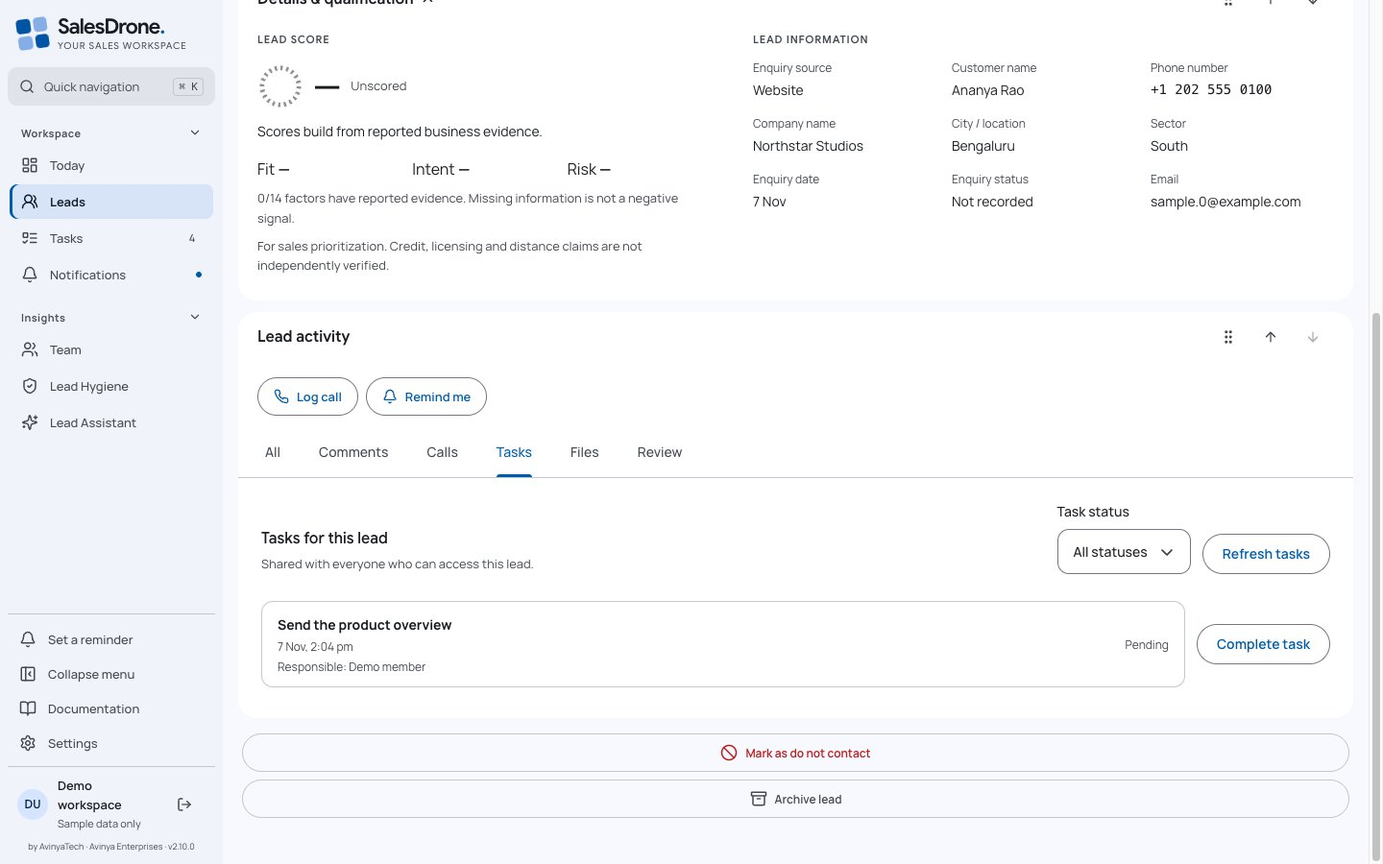
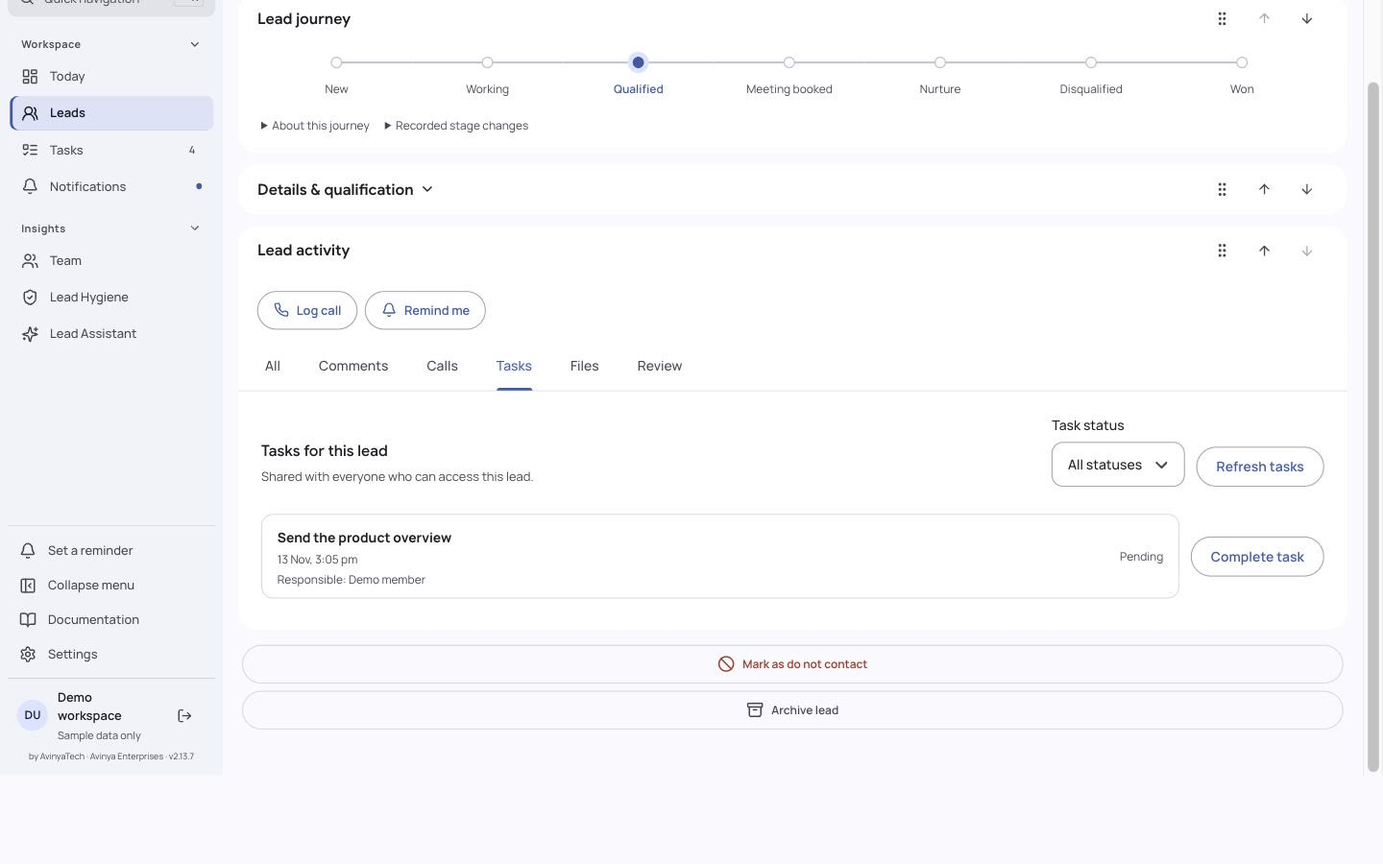
Refresh public product documentation and screenshots (#206)

diff --git a/site/index.html b/site/index.html
@@ -8,7 +8,7 @@
 <section id="journey"><span class="eyebrow">{{SECTION_NUMBER:journey}} / KNOW WHERE YOU STAND</span><h2>A path for the lead.<br>A view of the whole pipeline.</h2><div class="two"><div><p>Open a lead to see its current place in your configured sales stages. The recorded history shows actual changes, with their timestamps. Earlier stages are not marked as visited merely because they appear before the current one.</p><p>For older leads, SalesDrone says when earlier history is unavailable. New stage changes are recorded atomically with the lead update.</p><p>The dashboard funnel includes zero-count stages and your custom values. Its widths reflect current counts, so a later stage can be wider. Select a stage to open a matching lead list.</p></div><figure class="screen"><img src="assets/screenshots/journey-demo.jpg" alt="A synthetic lead opened with its current sales-stage journey"><figcaption>Configured path and confirmed history are separate ideas.</figcaption></figure></div></section>
 <section id="reminders"><span class="eyebrow">{{SECTION_NUMBER:reminders}} / LEAVE A USEFUL NEXT STEP</span><h2>Write the note.<br>Let the date become actionable.</h2><p>A note such as “Call them next Tuesday at 10” can become a reminder through server-side Gemini analysis. The worker checks the date, timezone, wording and current permissions before scheduling. You can edit or undo the generated reminder, and manual reminders remain available.</p><img class="illustration" src="assets/illustrations/02-notes-to-reminders.png" alt="Xiaohei winding a call note into a clock so it produces a dated reminder"><div class="three"><article><span>01</span><h3>Clear dates can schedule</h3><p>Dates resolve in the account timezone, including daylight-saving checks.</p></article><article><span>02</span><h3>Uncertainty stays visible</h3><p>Conditional, conflicting or unclear wording needs review instead of a guessed promise.</p></article><article><span>03</span><h3>You keep control</h3><p>Manual edits take priority. Stale analysis cannot revive an old reminder.</p></article></div><figure class="screen inbox-shot"><img src="assets/screenshots/notifications-demo.jpg" alt="Notification overlay open over the demo workspace, with read and unread actions"><figcaption>The bell opens an overlay. Read an update without abandoning the page, then open its lead or task when ready.</figcaption></figure></section>
 <section id="intelligence"><span class="eyebrow">{{SECTION_NUMBER:intelligence}} / SIGNALS, WITH CONTEXT</span><h2>Prioritize with evidence.<br>Keep the unknowns honest.</h2><p>Lead filters also power Excel reports: choose Export Excel on Leads, select columns and download every matching permitted lead across pages. Admins can disable reports or enforce assigned-only access under Reports &amp; lead access. The dashboard combines stage mix, outreach trends, reminder workload, city/sector distribution and qualification coverage. Gemini turns the permitted snapshot into a short brief, with links to relevant reminders and leads. Under Settings → AvinyaIntelligence → Dashboard insights, an admin can choose on-demand Get insights or automatic insights when the dashboard opens. Automatic mode hides the button, reuses matching results and does not regenerate on chart refresh. The same settings group contains personal Automatic reminders and admin Lead scoring.</p><div class="formula"><span>Fit</span><i>+</i><span>Intent</span><i>−</i><span>Red flags</span><i>=</i><strong>Sales priority</strong></div><p>For each lead, Gemini extracts supported factors and exact quotations. The server applies the admin’s weights: matched positive points are normalized to 100, penalties are subtracted and the result is clamped to 0–100. A score includes evidence coverage, not just a number.</p><div class="note"><strong>Unknown is not a fabricated zero.</strong><p>A lead with no supported qualification factors stays unscored. Credit, licence, delivery and business-capacity statements remain reported claims—not independent verification or a lending decision.</p></div><p class="fine">Snapshots and AI inputs are bounded. The app reports partial coverage when limits apply. Background score population takes multiple runs; editors can refresh an individual lead.</p></section>
-<section id="settings"><span class="eyebrow">{{SECTION_NUMBER:settings}} / YOUR BUSINESS, YOUR WORKSPACE</span><h2>Settings that grow<br>with the process.</h2><p><a href="product.html">Product handbook</a> · <a href="roadmap.html">Roadmap</a> · <a href="releases.html">Release notes</a> · <a href="settings.html">Read the complete settings and environment guide ↗</a></p><div class="two"><div><p>Admins manage people and permissions inside Settings. The desktop lead overlay can be widened from its left edge without changing the table. Expand opens a dedicated page with Comments, Tasks and Review tabs; the wider journey runs horizontally. Stage and assignment controls remain at the top. Leads Management groups feature access, lead field definitions, field order, the lead page header and choice lists. Admins can add or retire fields, change dropdown choices and configure qualification factors, evidence conditions and weights.</p><p>Personal sections cover Google profile, appearance, timezone, automatic-reminder preferences and notification devices. Desktop uses section navigation; mobile uses a section selector.</p><p>Collapse the main sidebar using the labelled control above Settings. The notification overlay, touch targets and mobile layout keep the same tasks within reach.</p></div><figure class="phone"><img src="assets/screenshots/mobile-demo.jpg" alt="A synthetic lead journey on a narrow mobile viewport"><figcaption>A measured browser breakpoint, not a claim of physical-device certification.</figcaption></figure></div><p>Admins can control member access to lead exports and AvinyaIntelligence in Leads Management → Feature access.</p><figure class="screen"><img src="assets/screenshots/lead-feature-access-demo.jpg" alt="Desktop Feature access settings with separate Export leads and Use AvinyaIntelligence controls"><figcaption>Both controls apply to non-Admin members with existing lead access.</figcaption></figure><figure class="phone"><img src="assets/screenshots/lead-feature-access-mobile-demo.jpg" alt="Feature access settings on a narrow mobile viewport"></figure></section>
+<section id="settings"><span class="eyebrow">{{SECTION_NUMBER:settings}} / YOUR BUSINESS, YOUR WORKSPACE</span><h2>Settings that grow<br>with the process.</h2><p><a href="product.html">Product handbook</a> · <a href="roadmap.html">Roadmap</a> · <a href="releases.html">Release notes</a> · <a href="settings.html">Read the complete settings and environment guide ↗</a></p><div class="two"><div><p>Admins manage people and permissions inside Settings. Open a lead to see its full page and activity tabs. The header shows the current stage and assignee. Use Edit lead to update them when permitted. Leads Management groups feature access, lead field definitions, field order, the lead page header and choice lists. Admins can add or retire fields, change dropdown choices and configure qualification factors, evidence conditions and weights.</p><p>Personal sections cover Google profile, appearance, timezone, automatic-reminder preferences and notification devices. Desktop uses section navigation; mobile uses a section selector.</p><p>Collapse the main sidebar using the labelled control above Settings. The notification overlay, touch targets and mobile layout keep the same tasks within reach.</p></div><figure class="phone"><img src="assets/screenshots/mobile-demo.jpg" alt="A synthetic lead journey on a narrow mobile viewport"><figcaption>A measured browser breakpoint, not a claim of physical-device certification.</figcaption></figure></div><p>Admins can control member access to lead exports and AvinyaIntelligence in Leads Management → Feature access.</p><figure class="screen"><img src="assets/screenshots/lead-feature-access-guide.jpg" alt="Desktop Feature access settings with separate Export leads and Use AvinyaIntelligence controls"><figcaption>Admins set member defaults here. For an individual export exception, open Workspace → People &amp; access → Edit access.</figcaption></figure><figure class="phone"><img src="assets/screenshots/lead-feature-access-mobile-guide.jpg" alt="Feature access settings on a narrow mobile viewport"></figure></section>
 <section id="engineering"><span class="eyebrow">{{SECTION_NUMBER:engineering}} / UNDER THE HOOD</span><h2>A thin interface.<br>A policy-owned backend.</h2><div class="architecture" aria-label="Application request architecture"><div><small>EXPERIENCE</small><b>React · TypeScript · Vite</b><span>Responsive UI and isolated demo</span></div><i>↓ verified Google identity + App Check</i><div><small>APPLICATION BOUNDARY</small><b>Node 22 · Express · Zod</b><span>Capabilities, scope, validation and versions</span></div><i>↓ atomic domain + audit + outbox</i><div><small>DURABLE STATE</small><b>Firestore · Cloud Functions</b><span>Transactions, history and scheduled workers</span></div><i>↓ validated inference / delivery</i><div><small>DEPENDENCIES</small><b>Gemini · FCM · Dynatrace</b><span>Structured AI, notifications and monitoring</span></div></div><div class="stack-table"><table><caption>The main building blocks</caption><thead><tr><th>Concern</th><th>Implementation</th></tr></thead><tbody><tr><td>Interface</td><td>React 19, TypeScript 5, Vite 7, Radix Dialog, Lucide, responsive CSS</td></tr><tr><td>Typography</td><td>Google Sans headings, Manrope body, Google Sans lead first names; Caveat login greeting, monospace phone numbers</td></tr><tr><td>Backend</td><td>Node.js 22, Express 5, Zod 4, Firebase Admin SDK</td></tr><tr><td>Identity & policy</td><td>Firebase Google Auth, App Check, active memberships and assigned/all scopes</td></tr><tr><td>State & hosting</td><td>Firestore Standard, Firebase Hosting, Cloud Functions v2 and Cloud Scheduler</td></tr><tr><td>Imports</td><td>ExcelJS in a bounded browser worker; validated, resumable commits</td></tr><tr><td>Monitoring</td><td>Dynatrace RUM; OpenTelemetry HTTP/protobuf; committed CloudEvents outbox</td></tr><tr><td>Delivery</td><td>GitHub Actions, Google OIDC federation, Firebase CLI and GitHub Pages</td></tr></tbody></table></div><details><summary>API contracts, concurrency and replay</summary><p>The generated OpenAPI contract defines permissions, validation, errors and pagination. A lead read always checks scope, including scores, journeys and replayed results. Expected versions reject lost updates. Idempotency keys bind selected creates to a request fingerprint. Cursor signatures bind pagination to identity, membership version and filters.</p><p>Firestore client reads/writes are denied; the UI uses the authenticated API. Network calls never run inside retried database transactions. Import chunks retain replay identities, while activity corrections preserve their original revisions.</p><a href="https://sales-drone-avinya.firebaseapp.com/api/docs">Browse the live OpenAPI reference ↗</a></details><details><summary>Background jobs and failure recovery</summary><p>Reminder workers recheck recipient membership, assignment and suppression before sending. Note-analysis jobs bind to source revision and scheduling preferences. Score workers use bounded scans, leases and failure backoff. A telemetry worker independently drains committed events with stable event IDs.</p><p>FCM acceptance is not proof that a person saw a notification. AI output is validated before domain changes. Exporters cannot authorize a request, undo a committed operation or replace an application error.</p></details><p><a href="https://github.com/theharithsa/SalesDrone/blob/main/docs/TECHNICAL.md">Read the in-depth engineering guide ↗</a></p></section>
 <section id="api"><span class="eyebrow">{{SECTION_NUMBER:api}} / CONNECT YOUR TOOLS</span><h2>Scoped access.<br>A documented contract.</h2><figure class="screen"><img src="assets/screenshots/api-portal-demo.jpg" alt="Self-hosted Swagger portal showing GET, POST, PATCH and DELETE task operations without credentials"><figcaption>Every supported operation has a request contract and an explicit authentication policy.</figcaption></figure><p>The <a href="https://sales-drone-avinya.firebaseapp.com/api/docs">Swagger API portal</a> documents all {{API_COUNT}} supported read, create, update and delete operations. Inspect schemas and required permissions, then try requests against your own workspace. Write requests change real records.</p><ol class="steps"><li><b>Open Developer settings.</b><span>An administrator generates a Personal Access Token, chooses the smallest scopes and a 7-, 30- or 90-day expiry.</span></li><li><b>Save it once.</b><span>Keep the raw credential in your integration’s secret manager. The app stores a hash and cannot recover it.</span></li><li><b>Authorize and verify.</b><span>Send it as an HTTPS Bearer credential. Current owner permissions and lead scope still apply. Revoke it in Settings when it is no longer needed.</span></li></ol><figure class="screen"><img src="assets/screenshots/developer-settings-demo.jpg" alt="Developer settings in an isolated synthetic emulator, with a revoked demonstration credential"><figcaption>Example settings from an isolated emulator. No live credential or customer record is shown.</figcaption></figure><p>Tokens cannot issue other tokens, change people/security settings or register devices. The portal hosts its scripts locally and does not load analytics. It clears authorization on page exit. Google-only administration remains documented alongside the integration operations.</p><p><a href="https://github.com/theharithsa/SalesDrone/blob/main/docs/API.md">Read the API integration guide and CRUD examples ↗</a></p></section><section id="delivery"><span class="eyebrow">{{SECTION_NUMBER:delivery}} / A RELEASE LEAVES A RECEIPT</span><h2>Version. Verify.<br>Deploy. Observe.</h2><img class="illustration" src="assets/illustrations/03-tested-release-observed.png" alt="Xiaohei sealing a versioned release parcel while retaining a monitoring receipt"><p>The current release is <strong>v{{APP_VERSION}}</strong>; the initial baseline was v1.0.0. New releases use semantic versions and dated changelog entries. A main push runs verification, then deploys Firebase rules/indexes, waits for index readiness, deploys the application functions, verifies the API ingress revision and parser boundary, then publishes Hosting assets.</p><p>GitHub uses OIDC federation rather than a downloaded service-account key. A successful deployment records its version, commit, run URL, function and ingress revisions, then sends the outcome to Dynatrace. Public documentation is published from this curated site only.</p><div class="three"><article><h3>Browser experience</h3><p>RUM observes performance and bounded actions. Replay is disabled; approved member emails identify RUM sessions, while backend actors remain hashed.</p></article><article><h3>Backend work</h3><p>Actual OpenTelemetry spans, correlated logs and bounded metrics describe API and worker execution.</p></article><article><h3>Committed outcomes</h3><p>Business events come from durable server transactions. Delivery retries reuse event IDs.</p></article></div><p class="fine">HTTP ingest acceptance, tenant-searchable records and a navigable RUM-to-trace link are different verification stages. Ingest-only credentials do not establish the other two.</p><p><a href="https://github.com/theharithsa/SalesDrone/blob/main/docs/RELEASE.md">Release and rollback guide ↗</a> <a href="https://github.com/theharithsa/SalesDrone/blob/main/docs/observability.md">Monitoring contracts and evidence ↗</a></p></section>
 <section id="security"><span class="eyebrow">{{SECTION_NUMBER:security}} / TRUST IS PART OF THE WORKFLOW</span><h2>Access is granted.<br>Customer data stays out of the guide.</h2><p>A Google sign-in is an identity, not permission to read the live workspace. Unapproved users see synthetic demo records. Server-side capabilities and scope protect lead details, tasks, notifications, histories and AI context.</p><p>Credentials stay in Secret Manager and protected workflow secrets. Backend telemetry excludes contact data, comments, task titles and AI content. Public screenshots are captured from the demo and checked before publishing. The public code repository contains no customer workbook or production screenshots.</p><p>App-data deletion and exported telemetry retention are separate boundaries. The installation owner should review tenant privacy, masking, consent and retention settings. No generated summary, inferred score or successful network response should be mistaken for independently verified business facts.</p><p><a href="https://github.com/theharithsa/SalesDrone/blob/main/SECURITY.md">Security policy and reporting ↗</a></p></section>

diff --git a/docs/PRODUCT-GUIDE.md b/docs/PRODUCT-GUIDE.md
@@ -30,7 +30,7 @@ The compact sidebar groups Workspace, Insights and Manage. Group headings collap
 
 **Why do I see sample data after Google login?**
 
-Your identity is authenticated, but workspace membership is missing or inactive. Ask an administrator to approve your account under Settings > People & permissions. Do not enter real customer information in demo mode.
+Your identity is authenticated, but workspace membership is missing or inactive. Ask an administrator to approve your account under Settings > Workspace > People & access. Do not enter real customer information in demo mode.
 
 **Does this application call leads automatically?**
 
@@ -114,7 +114,7 @@ Members; actions depend on capability
 
 2. Enter text and run search. Open Filters to choose the search field, stage or source; choose Filter any column for company, city, sector, name, dates or supported custom fields.
 
-3. Click a customer name for quick inspection. On desktop it opens above the unchanged table. At widths up to 1000 CSS pixels it opens the dedicated lead page directly, without an offset sheet. Use Back to leads; desktop overlays also close with Escape.
+3. Select a customer name to open the full lead page. Use Back to leads to return to your list.
 
 4. Drag the overlay’s left edge to change its width. Arrow Left/Right resize the focused separator; Shift doubles the step, Home/End select the limits, and double-click resets it. Width is remembered in this browser.
 
@@ -140,7 +140,7 @@ On mobile, New is the primary header action. Export Excel and permitted Import a
 
 Choose Exact match for Enquiry source, Sales stage or an available custom dropdown to match the saved value exactly, including case, spacing and Unicode. Equals continues to ignore case and surrounding spaces. All conditions narrow the accessible list together; filters never expand assignment access.
 
-The lead header shows the company or Individual Customer, phone and any extra values below the name. Admins choose extras in Settings → Lead fields → Lead page header. Select a phone number to open your calling app.
+The lead header shows the company or Individual Customer, phone and any extra values below the name. Admins choose extras in Settings → Leads Management → Lead page header. Select a phone number to open your calling app.
 
 Header phone numbers use the same monospace identifier font as phone fields and remain tappable dial links across personal font choices.
 
@@ -166,11 +166,11 @@ Equals normalizes text. Exact match requires the same saved case, spaces and Uni
 
 Members with lead-edit access; assignment permission for reassignment
 
-1. On desktop, filter Leads to the records you need, then tick individual selection boxes or Select loaded leads. A batch contains at most 25 explicitly selected loaded records; this does not select every record matching server filters.
+1. On desktop, filter Leads to the records you need, then tick individual selection boxes or Select first 25 leads. A batch contains at most 25 explicitly selected loaded records; this does not select every record matching server filters.
 
 2. Choose Batch edit. Pick shared fields and values; Add another field for additional changes. Leave unchanged retains each lead value. Clear value removes an optional value; required-field validation still applies.
 
-3. Choose an assignee only when permitted. Reassignment cancels pending tasks and alerts the new owner. Names, phone/email and discussion history are edited individually inside a lead.
+3. Choose an assignee only when permitted. Reassignment cancels pending outreach tasks and alerts the new owner. Names, phone/email and discussion history are edited individually inside a lead.
 
 4. Select Preview changes and inspect the before/after rows. Apply reviewed changes commits all selected updates together. A stale, archived or inaccessible lead rejects the whole batch; refresh and preview again.
 
@@ -190,17 +190,17 @@ No. Shared contact values would create duplicate identities, and conversations n
 
 One selected record may have changed, been archived or moved out of your scope, or a value may not match current field definitions. The API applies no partial batch. Refresh and preview using current versions.
 
-## Full lead page: All, Comments, Calls, Tasks and Review
+## Full lead page and activity tabs
 
 Members who can read the lead
 
-1. On desktop, select Open full lead page in the inspection overlay. On phones and narrow tablets, opening a lead goes directly to this page. The URL is /leads/{leadId}; bookmarks still require current authorization.
+1. Select a lead from the list to open its full page on desktop or mobile. The URL is /leads/{leadId}. Bookmarks require current workspace access.
 
-2. Use the stage and assignment controls at the top. Assignment editing is an administrator action. Read-only users see status rather than gaining access to the people directory.
+2. Check the current stage and assignee in the header. Open Edit lead to change the stage or assignment when your permissions allow it.
 
-3. Read the horizontal journey. Expand Recorded stage changes for actual recorded transitions. Open Lead details & score when you need the full enquiry context.
+3. Read the horizontal journey. Expand Recorded stage changes for actual recorded transitions. Open Details & qualification when you need the full enquiry context.
 
-4. Comments opens first. All includes every loaded activity and review information. Shared lead tasks appear in Tasks. Choose Comments for notes and imported discussion comments, Calls for call entries only, Tasks for shared lead work, or Review for issues needing attention. All and Comments include the inline Write a comment field. Arrow keys move between tabs; Home/End select the first/last tab. The card grip and move buttons save your Journey, Details and Activity order in this browser. Stage and assignee are read-only on the lead page and can be changed from Edit enquiry.
+4. Comments opens first. All includes every loaded activity and review information. Shared lead tasks appear in Tasks. Choose Comments for notes and imported discussion comments, Calls for call entries only, Tasks for shared lead work, or Review for issues needing attention. All and Comments include the inline Write a comment field. Arrow keys move between tabs; Home/End select the first/last tab. The card grip and move buttons save your Journey, Details and Activity order in this browser.
 
 5. Use Back to leads to return to the list. Filters remain available during the current session; a shared link still requires sign-in and current permission.
 
@@ -216,7 +216,7 @@ Lead actions at the bottom use full-size buttons. Mark as do not contact pauses 
 
 Mobile typography uses a 28px page-title role, 22px lead identity, 17px body/form text and 15px supporting text at default browser settings. Existing font families are retained. Stage/assignment controls reflow to available width and the journey scrolls horizontally, without widening the document. Browser text preferences and zoom may change the visual sizes.
 
-Log call and Remind me appear once above the tabs. Expanding Lead details & score shows a single labelled Lead information list, including email. Available phone/email links follow contact review and do-not-contact guards. The quick-inspection overlay has its own compact actions; those are not repeated on the full page.
+Log call and Remind me appear once above the tabs. Expanding Details & qualification shows a single labelled Lead information list, including email. Available phone/email links follow contact review and do-not-contact guards.
 
 The lead header groups the person, a small score ring, current sales stage and assignee. It reflows by available content width. The journey is a compact horizontally scrollable path; About this journey and Recorded stage changes expand separately. The ring shows a known score out of 100; a dashed ring means Unscored, which is different from a known zero. Reported risks retain an explicit warning label; a score is not a verified commercial guarantee.
 
@@ -276,7 +276,7 @@ Members with activities:write for changes
 
 1. Open a lead and choose Log call. Select the actual outcome, add discussion notes and any supported disposition or follow-up fields, then save.
 
-2. On the full lead page, type directly into Write a comment in All or Comments and choose Post comment. In the quick-inspection overlay, Add comment still opens the compact dialog. Each successful post creates a separate entry.
+2. On the full lead page, type directly into Write a comment in All or Comments and choose Post comment. Each successful post creates a separate entry.
 
 3. Check notes in Comments and logged calls in Calls; All combines both. The original author or an Admin with current lead access can choose Correct entry; the original revision remains part of the record.
 
@@ -424,7 +424,7 @@ Each nonblank selected discussion cell remains a distinct historical note. Accep
 
 Parsed rows, results and source values are retained until an Admin deletes details. Original workbook files are not stored. Deletion also clears the dataset’s source comparison baselines, so later uploads may need a new manual comparison; saved leads, discussions and summary audit history remain.
 
-View history requires imports:read. imports:write allows planning/review/execution; imports:share adds shared jobs. Lead create/edit capabilities and assigned/all policy still apply. Non-admin import permissions are opt-in in People & permissions.
+View history requires imports:read. imports:write allows planning/review/execution; imports:share adds shared jobs. Lead create/edit capabilities and assigned/all policy still apply. Non-admin import permissions are opt-in in People & access.
 
 Download results produces a local JSON report with permitted row details, provided workspace exports are enabled. History is not a substitute for authorization; changing roles or assignments can redact results or block the next chunk.
 
@@ -472,7 +472,7 @@ Members, when exports are enabled
 
 3. Cancel if you selected the wrong filter or columns. Download the completed workbook and handle it as private company data.
 
-4. Admins can turn off all lead exports in Settings > Workspace > Reports & lead access. To allow only selected members, turn off Export leads by default in Leads Management > Feature access. In People & access, open Edit access for each selected member and set Export leads to Allow.
+4. Admins can turn off all lead exports in Settings > Workspace > Reports & lead access. To allow only selected members, turn off Export leads by default in Leads Management > Feature access. In Workspace > People & access, open Edit access for each selected member and set Export leads to Allow.
 
 An export follows the active filters and current authorization; it is not an unrestricted database download. The server rechecks current access while report pages are read. Policy/account changes cancel pending work.
 
@@ -524,7 +524,7 @@ Personal controls for members; workspace controls for administrators
 
 1. Open Settings and search by name or browse the available categories. Desktop shows a category rail. On a phone, open a setting and use its back link to return to the category.
 
-2. Under Lead fields, choose Field definitions, Field order, Lead page header or Choice lists. Header choices show a fictional live preview.
+2. Under Leads Management, choose Field definitions, Field order, Lead page header or Choice lists. Header choices show a fictional live preview.
 
 3. Change personal preferences only for your account. Review the scope of a workspace setting before saving, because it can change other members’ workflow.
 
@@ -532,15 +532,15 @@ Personal controls for members; workspace controls for administrators
 
 Profile and appearance cover identity display, theme and timezone. Follow-up preferences control automatic reminder behavior, default time, next-week interpretation and weekend movement. Notifications manages browser device registration and tests.
 
-Field definitions includes editable built-in labels, delete/restore icons for standard-field visibility, adding custom fields with stable IDs and types, and editing/retiring existing definitions. Name, enquiry date and at least one contact field remain available. Choice lists manages allowed values for supported field types. Retirement preserves stored values; incompatible type changes are constrained.
+Field definitions includes editable built-in labels, delete/restore icons for standard-field visibility, adding custom fields with stable IDs and types, and editing/retiring existing definitions. New manual enquiries require a phone number and enquiry date. Customer name is optional. Choice lists manages allowed values for supported field types. Retirement preserves stored values; incompatible type changes are constrained.
 
-Reports & lead access controls exports and assigned-only visibility for non-admins. People & permissions manages members, invitations, role/capability and assignment scope. Developer settings manages scoped Personal Access Tokens. About describes the product and version.
+Reports & lead access controls exports and assigned-only visibility for non-admins. People & access manages members, invitations, role/capability and assignment scope. Developer settings manages scoped Personal Access Tokens. About describes the product and version.
 
 The linked Settings reference is the authoritative per-control checklist. This chapter explains navigation; it does not replace that detailed reference.
 
 The top-right theme switch shows sun and moon icons with a solid indicator on the active mode. It remains keyboard-accessible and removes animation when your device requests reduced motion. Book mode is available from v1.6.3 in Appearance & time; save the personal preference to apply it.
 
-On phones, lead details stack Sales stage and Assigned to controls with matching labels and widths. Dashboard outreach labels align with their horizontal gridlines; use the metric switch and Day selector to inspect values.
+On phones, the lead header displays Sales stage and Assigned to. Open Edit lead to change either value when permitted.
 
 ![Settings: complete control reference — synthetic demo only](../site/assets/screenshots/field-manager-demo.jpg)
 
@@ -548,11 +548,11 @@ On phones, lead details stack Sales stage and Assigned to controls with matching
 
 **Can I rename a built-in field?**
 
-Use Lead fields > Field definitions. A label change does not rename its stable API key, so integrations keep using the documented schema.
+Use Leads Management > Field definitions. A label change does not rename its stable API key, so integrations keep using the documented schema.
 
 **Can I remove a field without losing historical data?**
 
-Use the delete icon in Lead fields > Field definitions. Standard fields can be restored with the restore icon; saved values remain intact. Customer name is optional. Manual enquiries require an enquiry date and a phone number. In Lead fields, open Field order to arrange visible built-in and custom fields across forms, the Leads worksheet and Excel. Open Lead page header to choose up to six fields to show under a lead’s name. Fields appear when a value is recorded.
+Use the delete icon in Leads Management > Field definitions. Standard fields can be restored with the restore icon; saved values remain intact. Customer name is optional. Manual enquiries require an enquiry date and a phone number. In Leads Management, open Field order to arrange visible built-in and custom fields across forms, the Leads worksheet and Excel. Open Lead page header to choose up to six fields to show under a lead’s name. Fields appear when a value is recorded.
 
 ## Book mode: a quieter reading workspace
 
@@ -594,19 +594,23 @@ Save preferences to apply it. If saving fails, the previous saved style remains 
 
 Administrators
 
-1. Open Settings > People & permissions. Invite or approve the intended Google account; verify its email carefully.
+1. Open Settings > Workspace > People & access. Invite or approve the intended Google account; verify its email carefully.
 
 2. Set the role, capabilities and supported lead scope appropriate to the person’s work. Review active status and current ownership before granting access.
 
-3. Assign a lead using the top-of-lead assignment control. The recipient receives an eligible assignment notification; pending old-owner outreach is cancelled.
+3. For an export exception, choose Edit access next to a member. Set Export leads to Use workspace default, Allow or Block, then save. Allow Excel reports must be enabled in Reports & lead access, and the member’s lead visibility still applies.
 
-4. Deactivate or adjust membership when responsibility changes. Recheck access with the affected user rather than assuming a cached page reflects current permission.
+4. Open Edit lead and change Assigned to when you have assignment access. The recipient receives an eligible assignment notification; pending old-owner outreach is cancelled.
+
+5. Deactivate or adjust membership when responsibility changes. Recheck access with the affected user rather than assuming a cached page reflects current permission.
 
 The two bootstrap administrator identities remain protected. Routine sign-in does not approve membership. Server policy is authoritative for every read, write, inference input and export; hiding a button alone is not an access boundary.
 
 Role labels and capabilities are related but not interchangeable. Personal reminders and notification delivery remain private; lead-linked tasks follow current lead access. Assigned-only policy can further restrict non-admin lead access even when other capabilities are present.
 
 Only grant access needed for the person’s responsibility. Do not share Google sessions or personal API tokens across employees.
+
+![People, permissions and assignment — synthetic demo only](../site/assets/screenshots/people-export-guide.jpg)
 
 ### Questions
 
@@ -722,7 +726,7 @@ Everyone
 
 Body and editable text use a 16px default, with 14px supporting text, 13px desktop table data and 12px metadata. Phone lead cards use 16px names with secondary details grouped below. Standard font families are unchanged. Book mode uses its own handwriting. Sizes scale with browser text preferences.
 
-On narrow screens a lead opens its dedicated page. On larger screens inspection overlays the table; expand opens the full page. Local table, stage and tab scrolling is intentional.
+A lead opens its dedicated page on desktop and mobile. The lead table, journey and activity tabs can scroll within their own sections.
 
 Dialogs and Settings forms select columns by their own available width. Dashboard labels remain readable independently of chart geometry. Keyboard focus, reduced motion and 44px control targets remain available.
 

diff --git a/skills/salesdrone-product-guide/SKILL.md b/skills/salesdrone-product-guide/SKILL.md
@@ -71,6 +71,6 @@ Team reporting guidance is in [operations](references/operations.md).
 
 Verify each capture heading against its caption; see [operations](references/operations.md).
 
-For the full-page lead workflow, capture Comments as the default and review the visible header, card order controls and lead task actions. Retire obsolete inspector captures.
+Capture Comments as the lead page default. Review the header, card order, shared tasks and member export controls. Keep guide captures separate from matching historical release screenshots.
 
 Refresh the chart grouping, Team controls, import history, Hygiene and Assistant screenshots from synthetic fixtures.

diff --git a/CHANGELOG.md b/CHANGELOG.md
@@ -15,6 +15,7 @@ API contract versions are independent from application versions.
 
 ### Changed
 - Add a public roadmap with sprint windows and prerequisites, plus a filterable release index and individual version notes linked from the guide.
+- Refresh the illustrated guide and product handbook for full-page leads, shared tasks and member export permissions, with current synthetic desktop and phone screenshots.
 
 ## [2.13.6] - 2026-11-12
 
